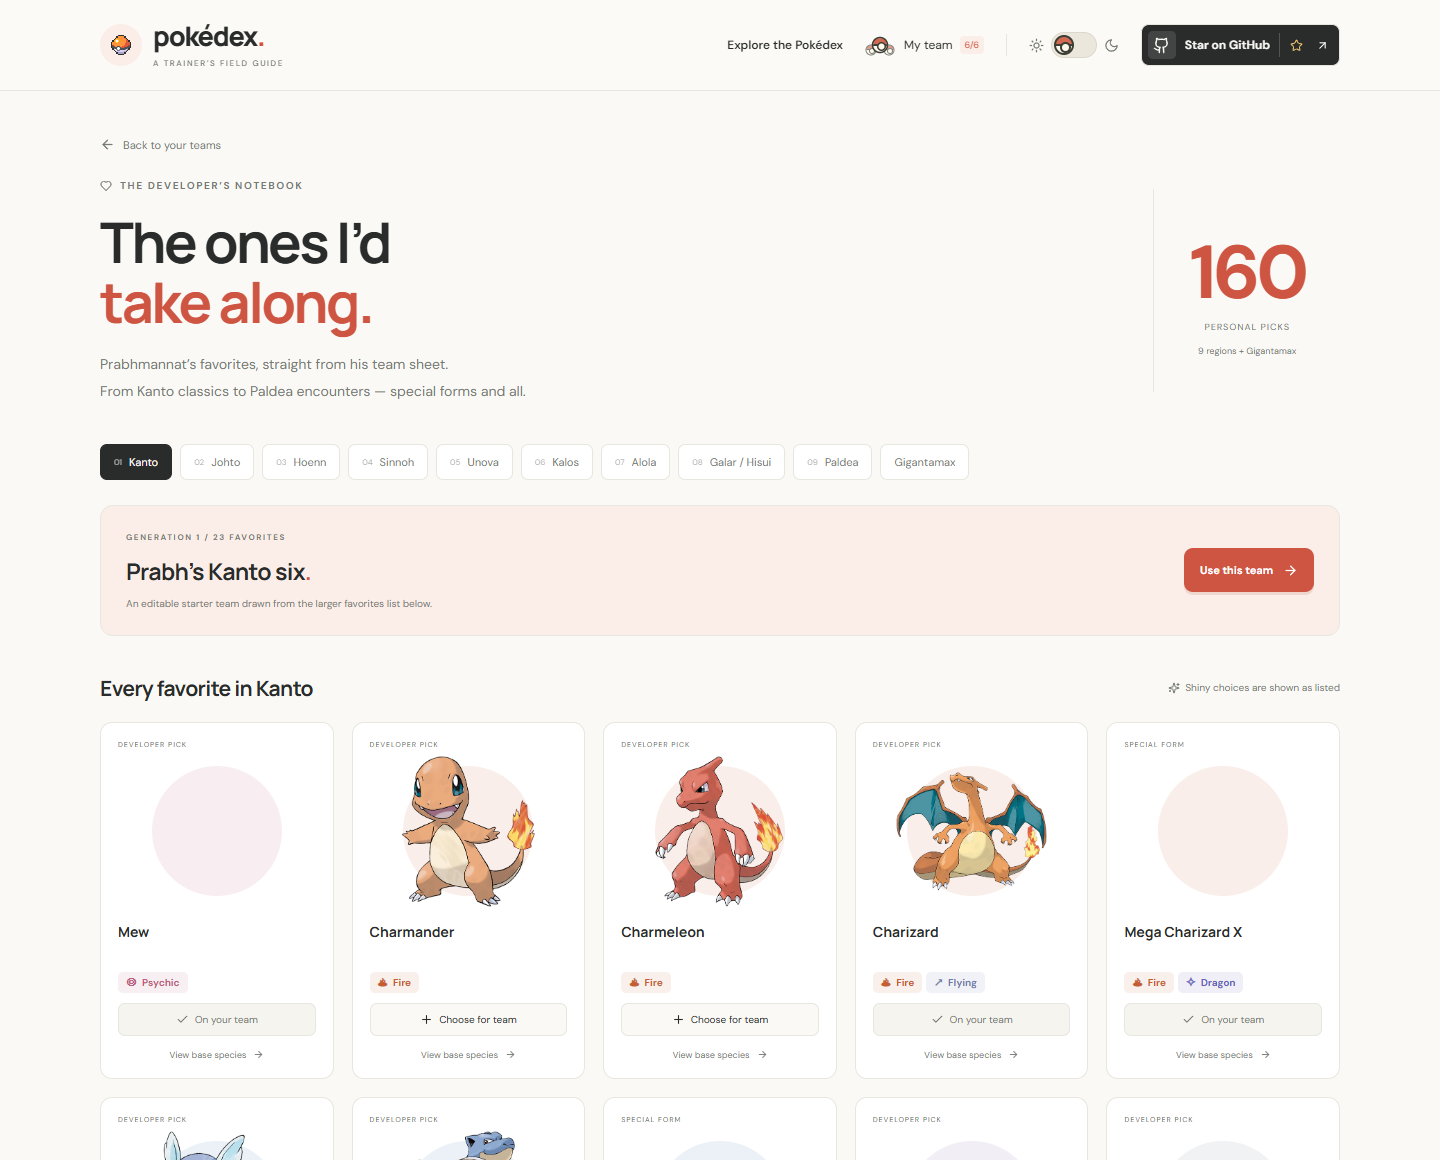
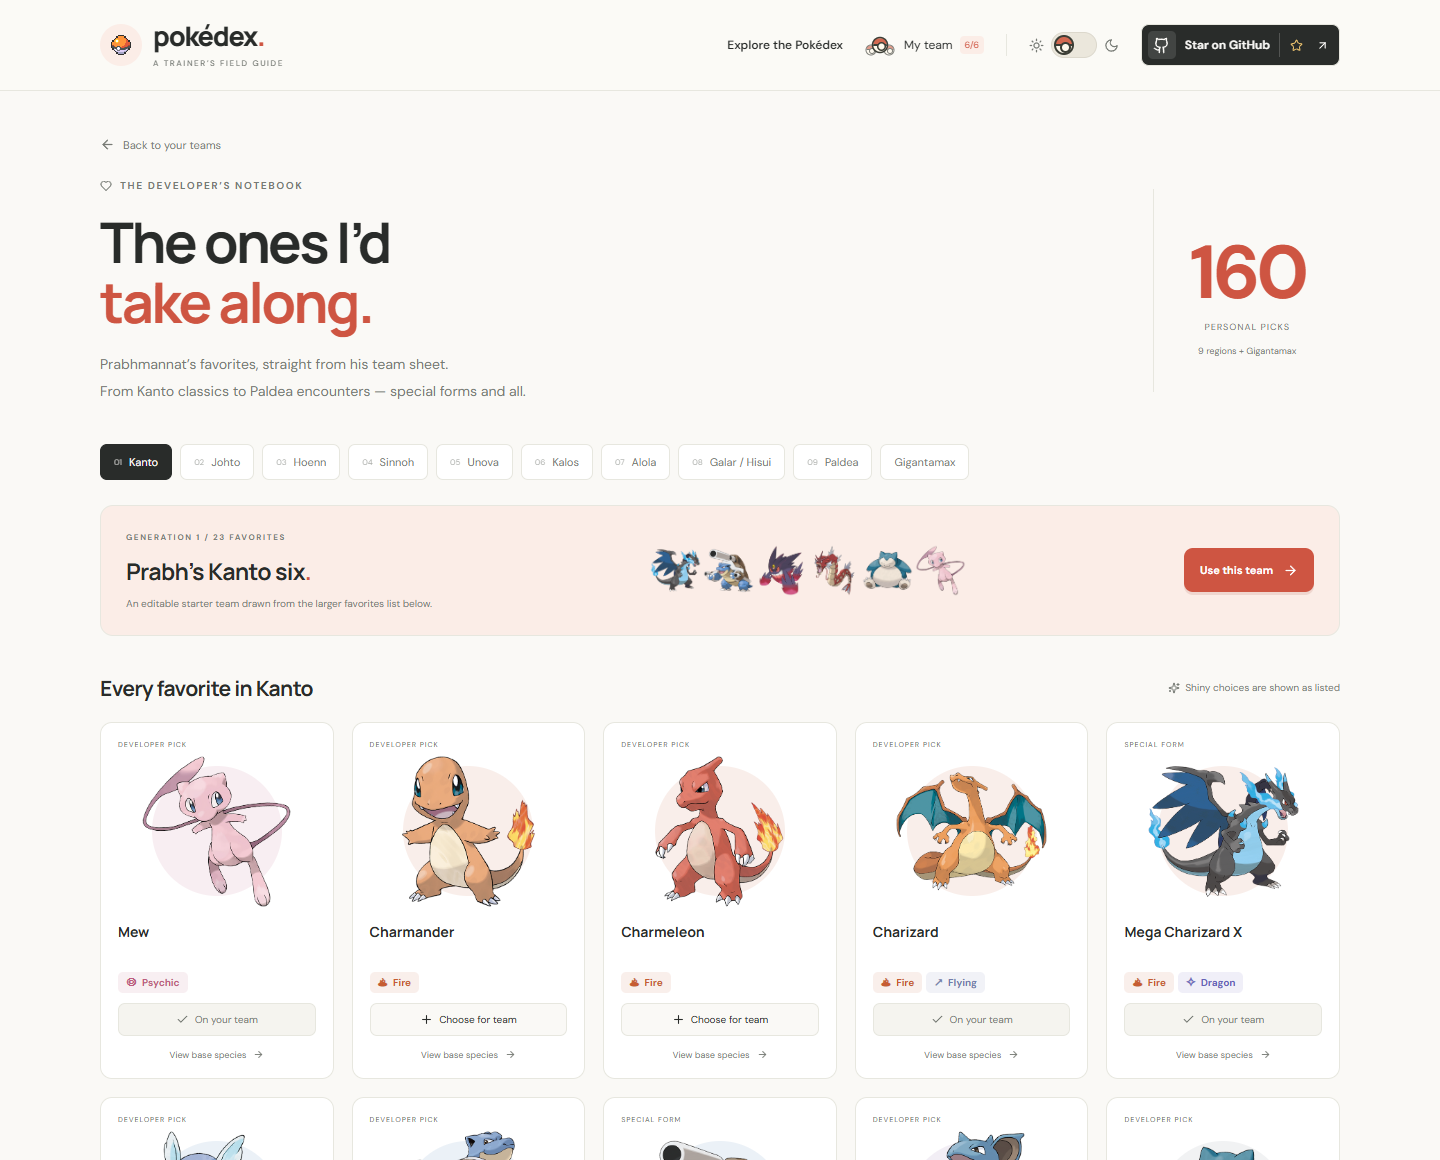
test: verify generation browsing preserved copies and centered footer

diff --git a/tests/e2e/team-gallery.spec.js b/tests/e2e/team-gallery.spec.js
@@ -1,0 +1,89 @@
+import { test, expect } from '@playwright/test';
+
+test.beforeEach(async ({ page }) => {
+  await page.route('https://raw.githubusercontent.com/PokeAPI/sprites/**', (route) =>
+    route.fulfill({ path: 'public/brand/pikachu.png', contentType: 'image/png' }),
+  );
+  await page.goto('/teams');
+});
+
+test('all presets appear in the selector and switching preserves edited copies', async ({
+  page,
+}) => {
+  await expect(
+    page.locator('#active-team optgroup[label="Prabh’s generation teams"] option'),
+  ).toHaveCount(10);
+  await page.getByLabel('CHOOSE A TEAM').selectOption('preset:hoenn');
+  await expect(page.getByRole('heading', { name: 'Prabh’s Hoenn six.' })).toBeVisible();
+  await page.getByRole('button', { name: 'Remove Mega Blaziken from team' }).click();
+  await page.getByLabel('CHOOSE A TEAM').selectOption('preset:kanto');
+  await expect(page.getByRole('heading', { name: 'Prabh’s Kanto six.' })).toBeVisible();
+  await page.getByLabel('CHOOSE A TEAM').selectOption('preset:hoenn');
+  await expect(page.locator('.empty-team-slot')).toHaveCount(1);
+  await expect(page.locator('#active-team optgroup[label="Your saved teams"] option')).toHaveCount(
+    2,
+  );
+  await page.reload();
+  await expect(page.getByRole('heading', { name: 'Prabh’s Hoenn six.' })).toBeVisible();
+  await expect(page.locator('.empty-team-slot')).toHaveCount(1);
+});
+
+test('collection exposes every generation, filters by source, and opens local copies', async ({
+  page,
+}) => {
+  await page.getByRole('link', { name: 'View all generation teams' }).click();
+  await expect(page.locator('.team-gallery-card')).toHaveCount(11);
+  await page.getByLabel('Created by').selectOption('prabh');
+  await expect(page.locator('.team-gallery-card')).toHaveCount(10);
+  await page.getByLabel('Generation', { exact: true }).selectOption('9');
+  await expect(page.locator('.team-gallery-card')).toHaveCount(1);
+  await expect(page.getByRole('heading', { name: 'Prabh’s Paldea six' })).toBeVisible();
+  await page.getByRole('button', { name: 'Open Prabh’s Paldea team' }).click();
+  await expect(page.getByRole('heading', { name: 'Prabh’s Paldea six.' })).toBeVisible();
+  await page.getByRole('link', { name: 'View all generation teams' }).click();
+  await page.getByLabel('Created by').selectOption('saved');
+  await expect(page.locator('.saved-gallery-card')).toHaveCount(2);
+  await page.getByRole('button', { name: 'Edit Prabh’s Kanto six', exact: true }).click();
+  await expect(page.getByRole('heading', { name: 'Prabh’s Kanto six.' })).toBeVisible();
+});
+
+test('custom teams appear in their own collection and empty filters can reset', async ({
+  page,
+}) => {
+  await page.getByRole('button', { name: 'Create team', exact: true }).click();
+  await page.getByLabel('A name for your next adventure').fill('My forest team');
+  await page.getByRole('button', { name: 'Save new team' }).click();
+  await page.getByLabel('Search Pokémon for your team').fill('bulbasaur');
+  await page.getByRole('button', { name: 'Add Bulbasaur to team' }).click();
+  await page.goto('/teams/all?creator=saved&gen=1');
+  await expect(page.getByRole('heading', { name: 'My forest team' })).toBeVisible();
+  await page.getByLabel('Generation', { exact: true }).selectOption('9');
+  await expect(page.getByRole('heading', { name: 'No teams in this view yet.' })).toBeVisible();
+  await page.getByRole('button', { name: 'Show all teams' }).click();
+  await expect(page.locator('.team-gallery-card')).toHaveCount(12);
+});
+
+test('notebook, collection, centered credit and source button fit desktop and mobile', async ({
+  page,
+}) => {
+  await expect(page.getByText('SIX COMPANIONS. A THOUSAND POSSIBILITIES.')).toHaveCount(0);
+  await expect(page.getByRole('link', { name: 'Explore Prabh’s developer picks' })).toBeVisible();
+  for (const width of [1440, 920, 390, 360]) {
+    await page.setViewportSize({ width, height: 900 });
+    await page.locator('.site-footer').scrollIntoViewIfNeeded();
+    const footer = await page.locator('.site-footer').boundingBox();
+    const credit = await page.locator('.maker-credit').boundingBox();
+    expect(Math.abs(credit.x + credit.width / 2 - footer.x - footer.width / 2)).toBeLessThan(2);
+    await expect(page.getByRole('link', { name: 'View source on GitHub' })).toHaveAttribute(
+      'href',
+      'https://github.com/PRABHMANNAT/Pokedex',
+    );
+    expect(await page.evaluate(() => document.documentElement.scrollWidth <= innerWidth)).toBe(
+      true,
+    );
+  }
+  await page.goto('/teams/all');
+  expect(await page.evaluate(() => document.documentElement.scrollWidth <= innerWidth)).toBe(true);
+  await page.getByRole('switch', { name: 'Night mode' }).click();
+  await expect(page.locator('html')).toHaveAttribute('data-theme', 'dark');
+});

diff --git a/src/components/TeamGallery.jsx b/src/components/TeamGallery.jsx
@@ -82,7 +82,11 @@ export default function TeamGallery() {
       <div className="gallery-filters">
         <label>
           Created by
-          <select value={creator} onChange={(event) => change('creator', event.target.value)}>
+          <select
+            aria-label="Created by"
+            value={creator}
+            onChange={(event) => change('creator', event.target.value)}
+          >
             <option value="">All teams</option>
             <option value="prabh">Prabh’s presets</option>
             <option value="saved">Saved in this browser</option>
@@ -90,7 +94,11 @@ export default function TeamGallery() {
         </label>
         <label>
           Generation
-          <select value={generation} onChange={(event) => change('gen', event.target.value)}>
+          <select
+            aria-label="Generation"
+            value={generation}
+            onChange={(event) => change('gen', event.target.value)}
+          >
             <option value="">All generations</option>
             {REGIONS.map((region, index) => (
               <option key={region} value={index + 1}>

diff --git a/docs/TEAMS.md b/docs/TEAMS.md
@@ -10,6 +10,8 @@ Open `/teams` to create a team without signing in. A new browser starts with **P
 - Add Pokémon from the explorer, detail notes, or developer notebook. Full teams link back to the editor so you can make room.
 - Copy a share link. Importing a shared team requires pressing **Save shared team** and never silently replaces an existing lineup.
 - Use `/picks?region=hoenn` (or another notebook region) for personal favorites and one-click starter teams. The tenth group is Gigantamax.
+- The **Choose a team** selector lists both your saves and every regional preset. Selecting a preset opens its existing local copy if available, preserving edits; otherwise it creates an editable copy without replacing another team.
+- **View all generation teams** opens `/teams/all`, a visual collection of all ten Prabh templates and your saved lineups. Filter by creator/source and generation. Custom saved teams match generations represented by their companions; preset copies follow their notebook region. This is not a public directory of strangers' teams.
 
 ## Source and forms
 

diff --git a/README.md b/README.md
@@ -64,6 +64,10 @@ Teams save **only in your browser**, without an account. Share links include the
 
 [Team builder & data notes](docs/TEAMS.md)
 
+Browse every regional starter team together in the **team collection**, then filter Prabh’s templates or your browser-saved lineups by generation. The editor’s team selector now offers every region directly, while keeping your edited copies intact.
+
+<img src="docs/images/team-collection.png" alt="All-generation team collection with creator and generation filters, six-member previews and editable local copies" width="100%" />
+
 <img src="docs/images/mobile-team.png" alt="The six-slot team editor on a pocket-sized mobile screen" width="280" />
 
 ## Your first encounter
